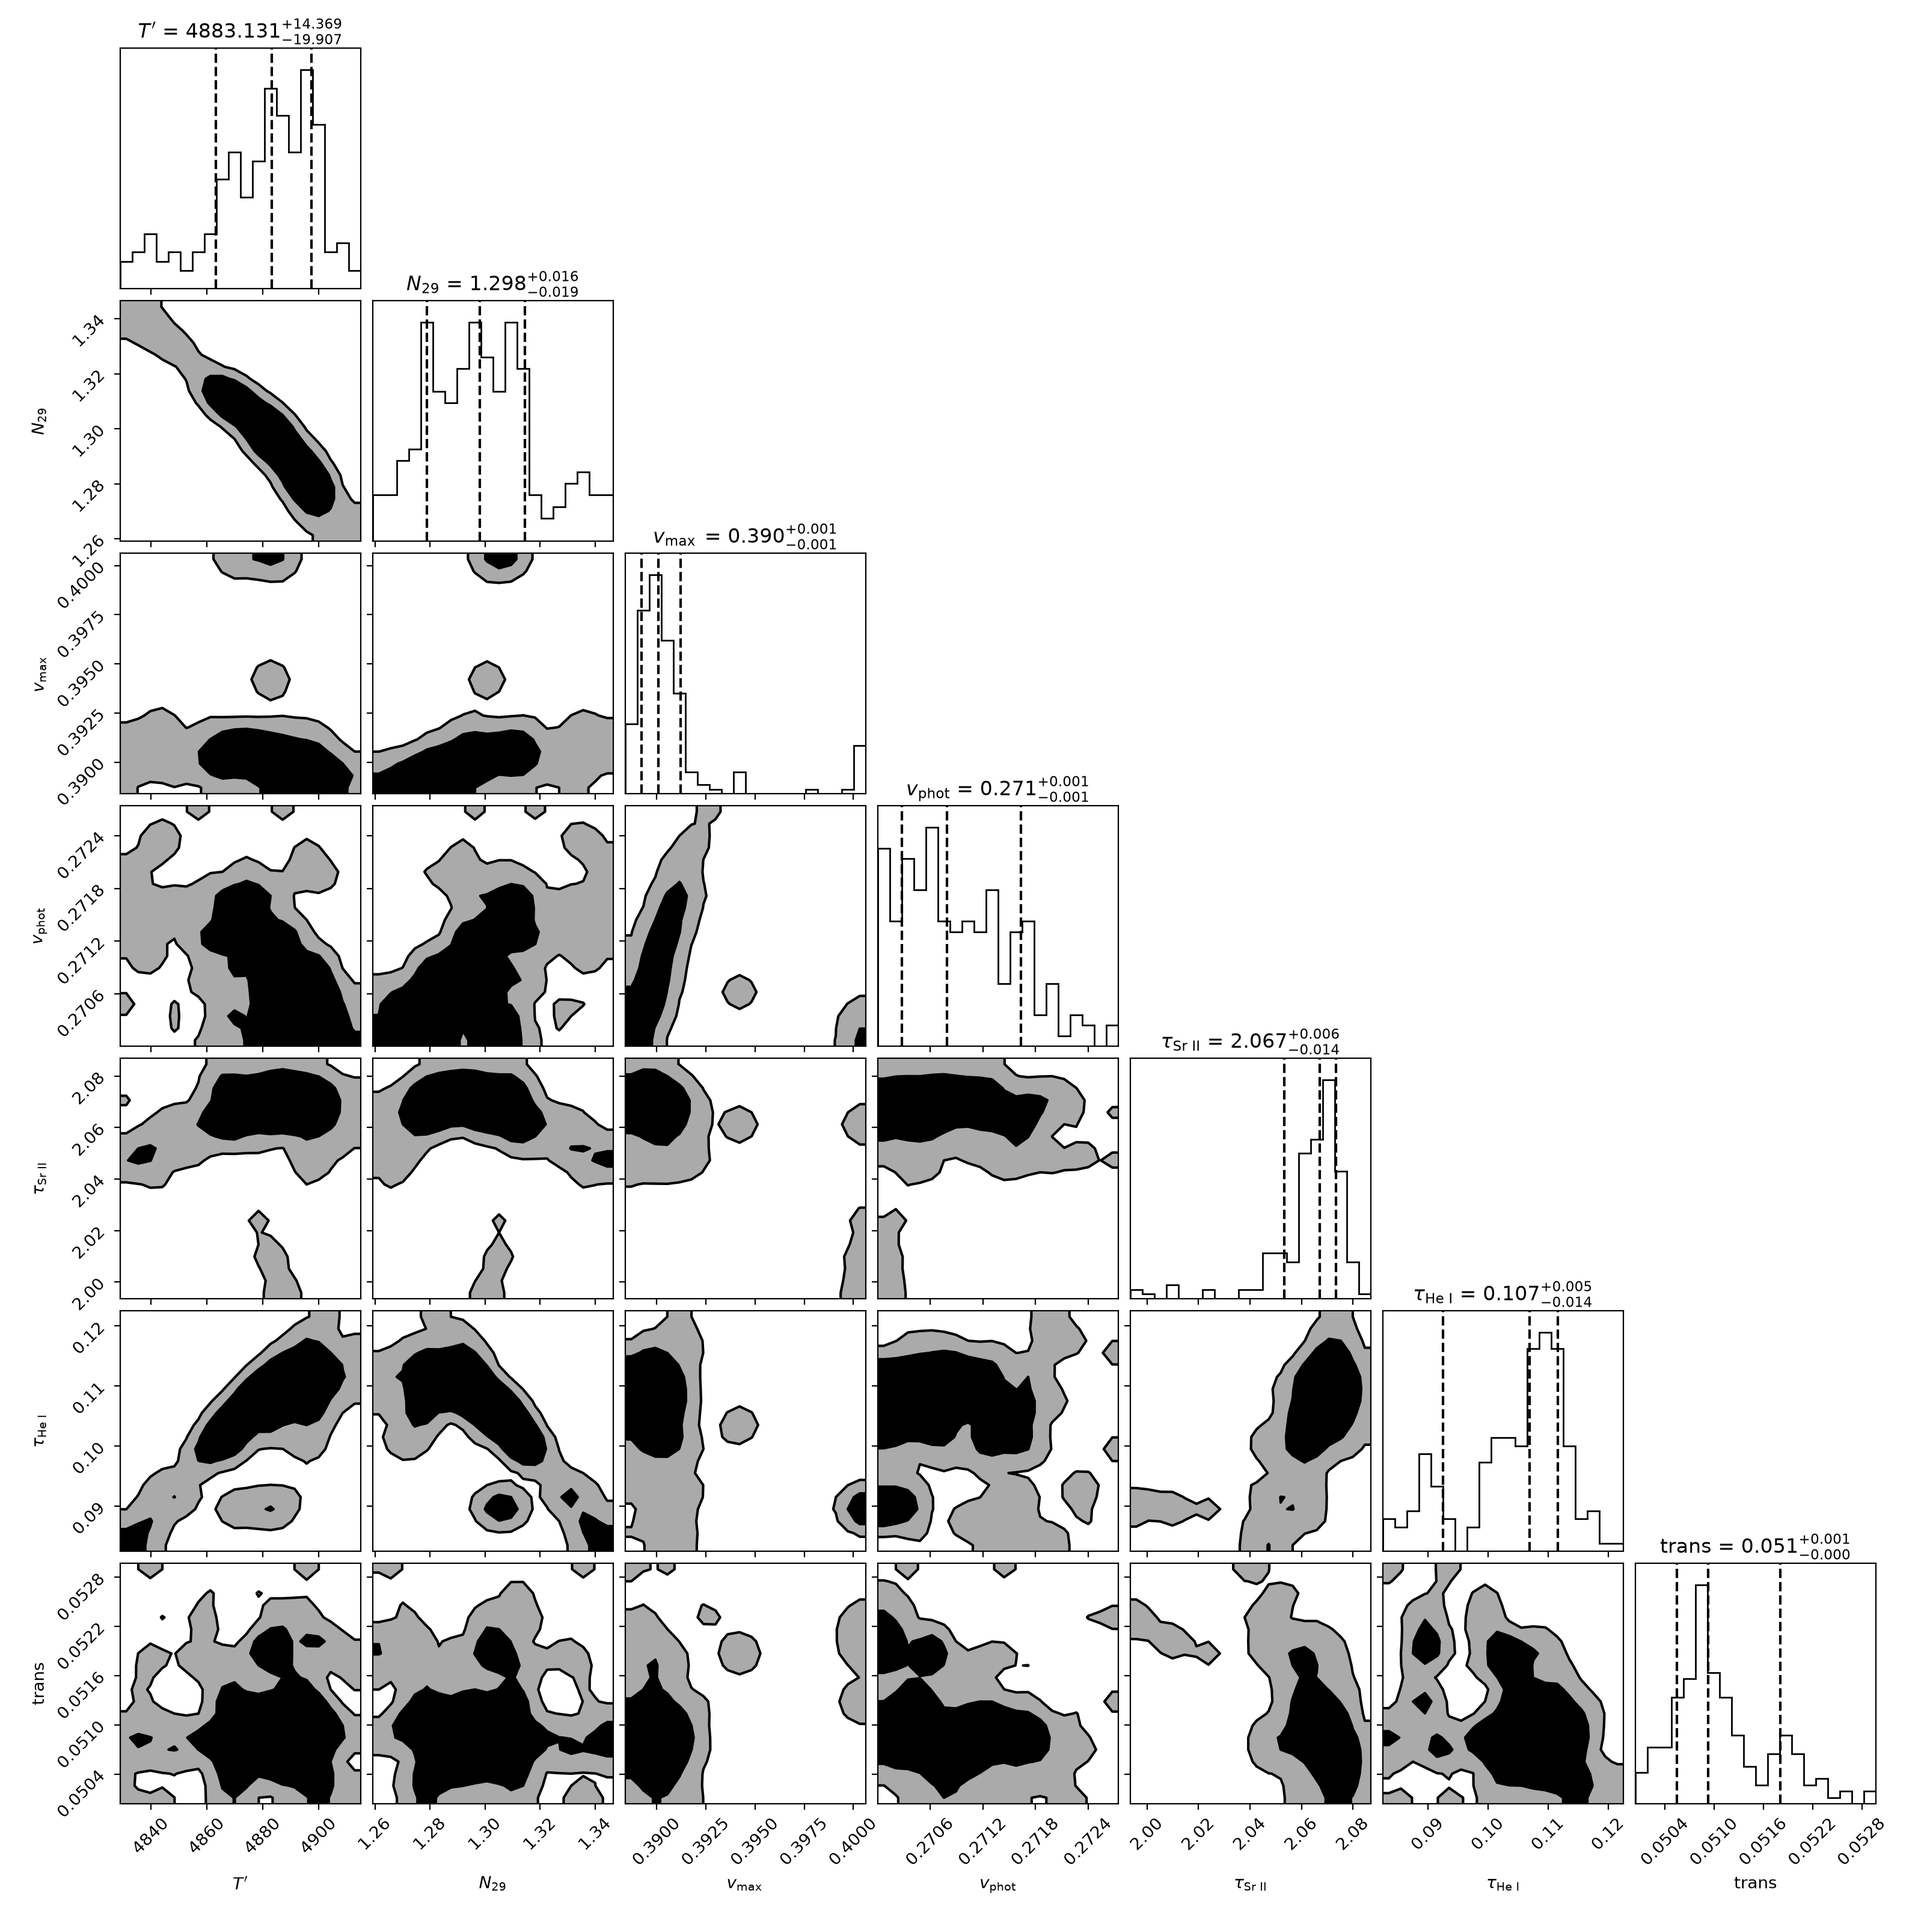
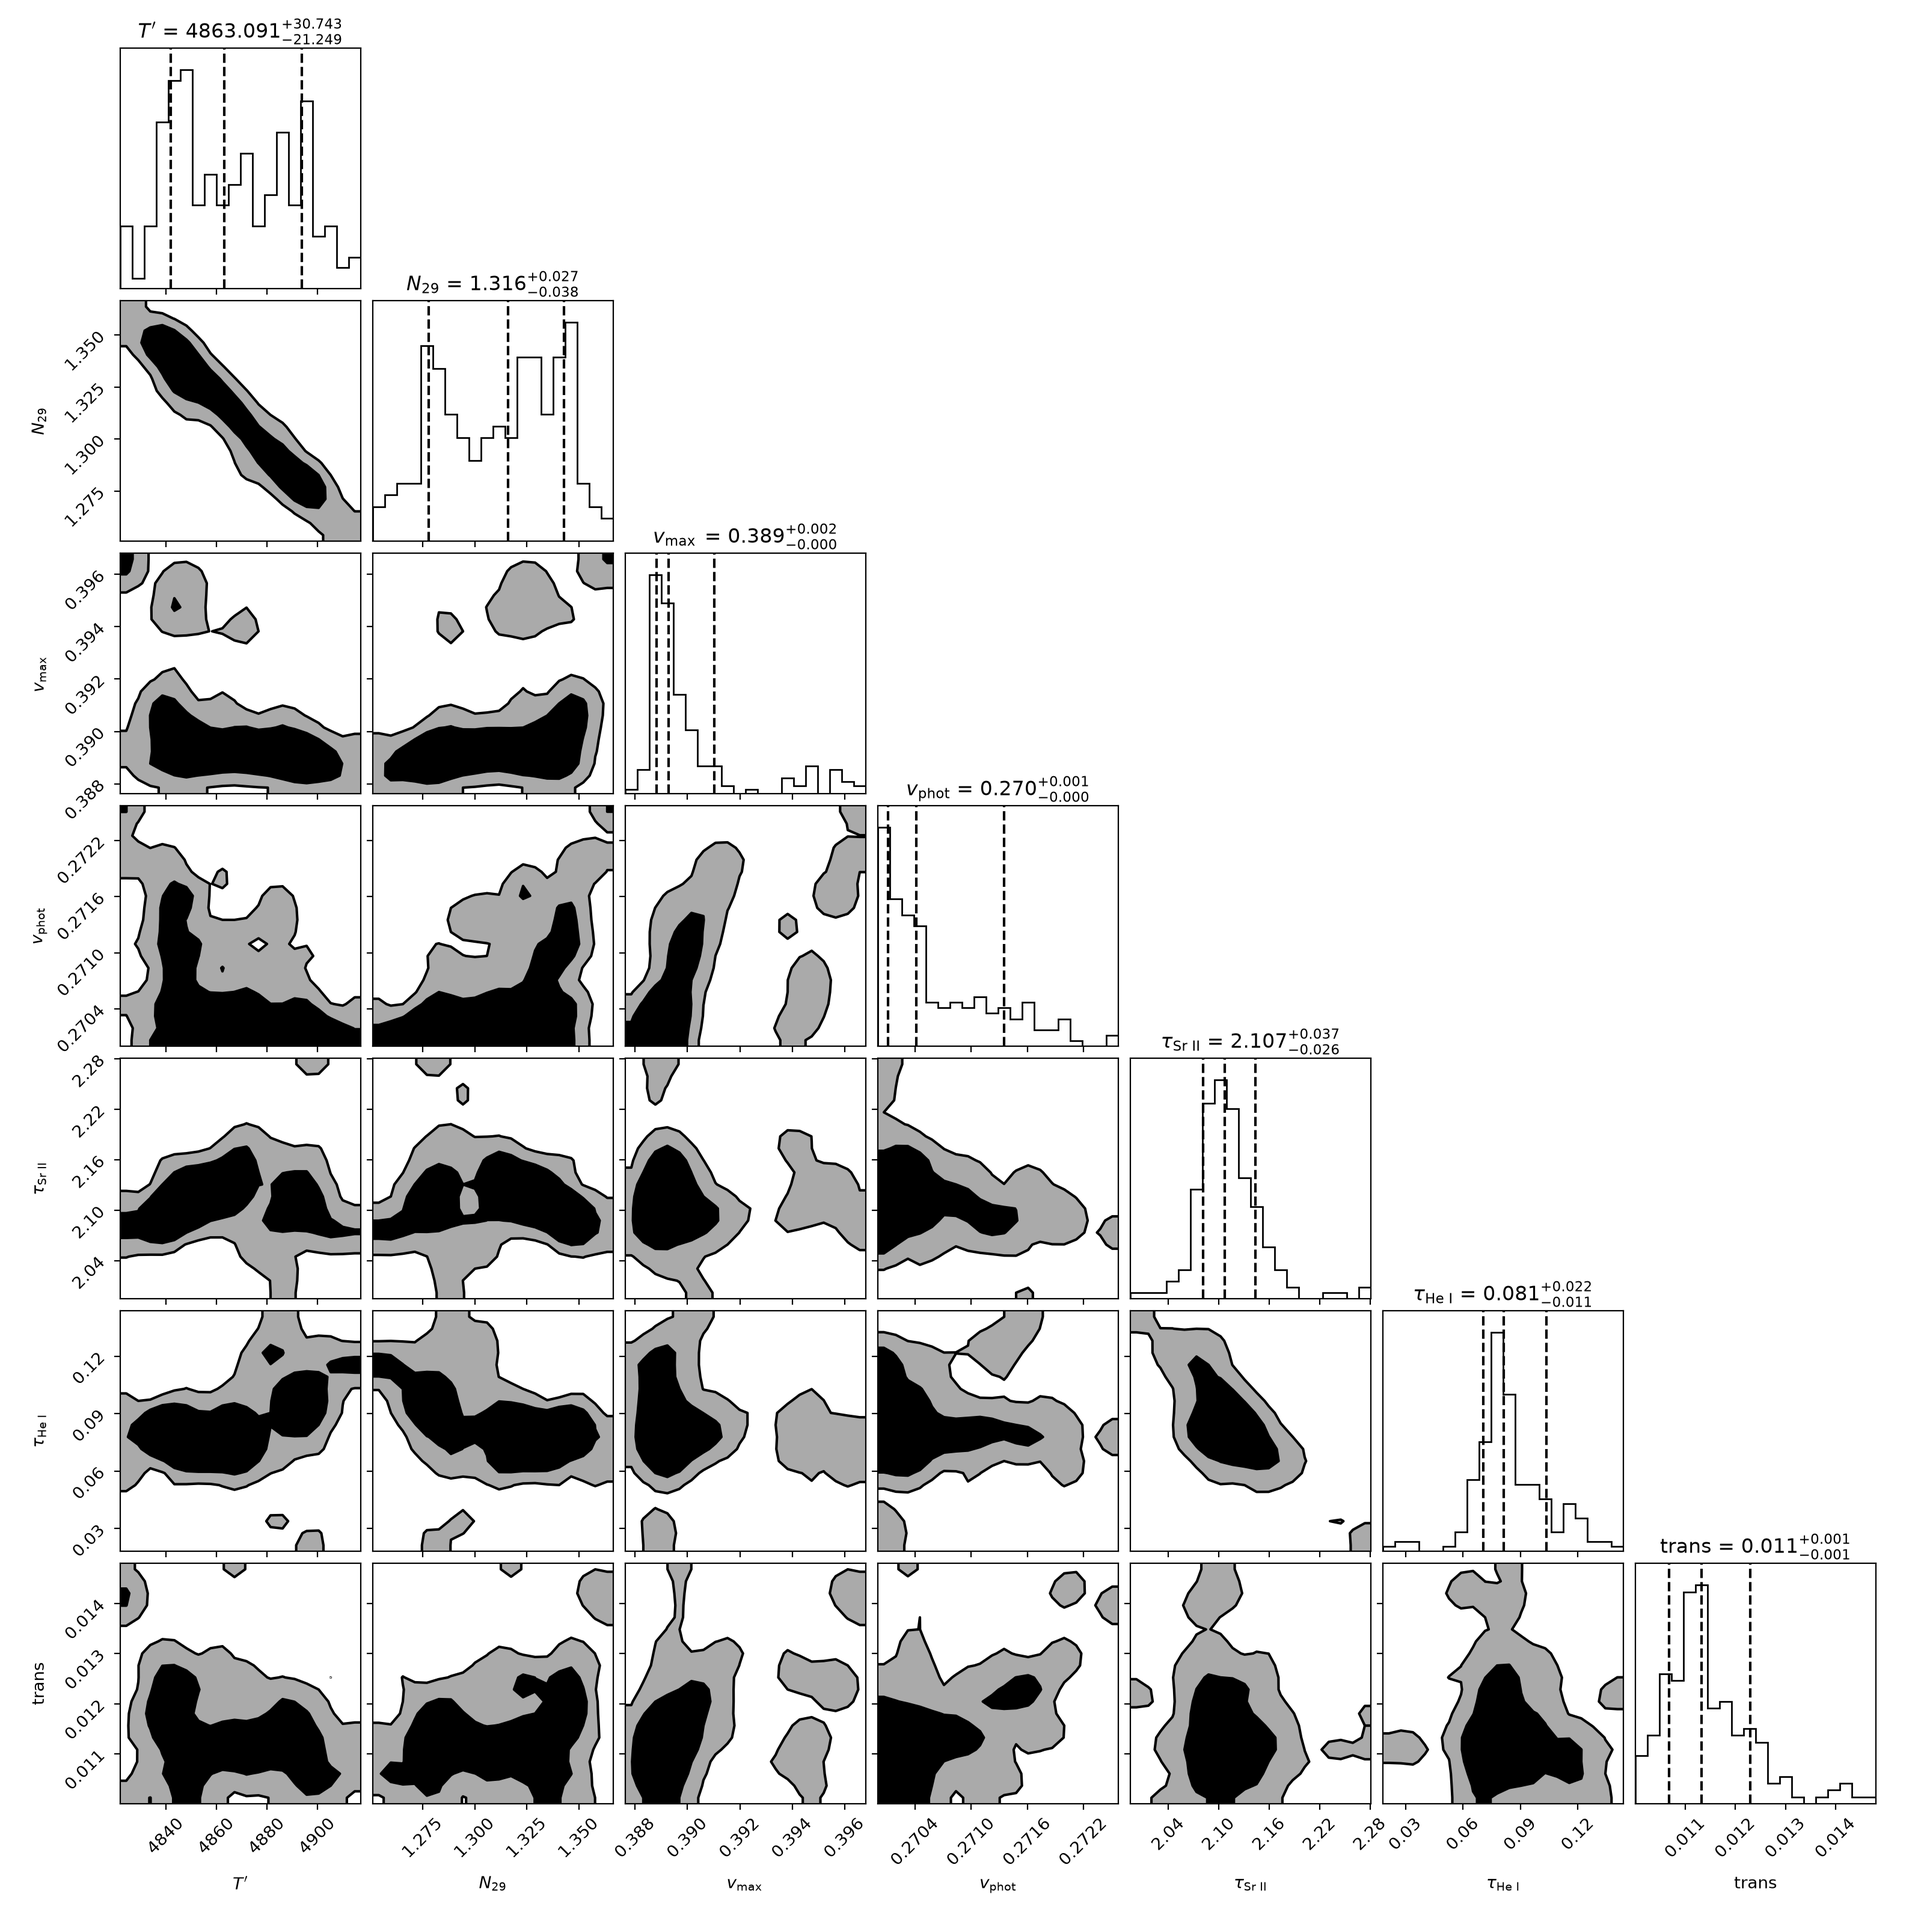
Fix MCMC multimodality issue and refine MCMC bounds/priors

diff --git a/scripts/run_mcmc_fit.py b/scripts/run_mcmc_fit.py
@@ -131,7 +131,7 @@ def main():
                 (0.27, 0.35),
                 (0.8, 2.5),
                 (0.0, 0.50),
-                (0.05, 1.2),
+                (0.01, 1.2),
             ],
             "init_guess": [4800.0, 1.20, 0.42, 0.29, 1.80, 0.05, 0.35],
         },
@@ -143,13 +143,13 @@ def main():
             "bounds": [
                 (2900.0, 4000.0),
                 (1.50, 3.20),
-                (0.32, 0.42),
+                (0.25, 0.42),
                 (0.16, 0.29),
-                (0.5, 2.5),
+                (0.1, 4.0),
                 (0.0, 1.20),
                 (0.15, 1.2),
             ],
-            "init_guess": [3200.0, 2.10, 0.36, 0.24, 1.50, 0.30, 0.45],
+            "init_guess": [3200.0, 2.10, 0.36, 0.24, 1.35, 0.30, 0.45],
         },
         {
             "label": "Phase +3.41d (OB3)",
@@ -159,8 +159,8 @@ def main():
             "bounds": [
                 (2500.0, 3680.0),
                 (1.0, 5.0),
-                (0.23, 0.37),
-                (0.14, 0.25),
+                (0.18, 0.37),
+                (0.10, 0.25),
                 (0.1, 3.0),
                 (0.0, 3.0),
                 (0.15, 1.2),
@@ -176,12 +176,12 @@ def main():
                 (2200.0, 3335.0),
                 (2.00, 4.00),
                 (0.19, 0.33),
-                (0.12, 0.21),
+                (0.08, 0.18),
                 (0.1, 2.5),
                 (0.3, 2.50),
                 (0.15, 1.2),
             ],
-            "init_guess": [2500.0, 3.10, 0.27, 0.16, 1.00, 1.20, 0.60],
+            "init_guess": [2500.0, 3.10, 0.27, 0.14, 1.00, 1.20, 0.60],
         },
     ]
 
@@ -245,9 +245,9 @@ def main():
         pos = []
         for _ in range(nwalkers):
             while True:
-                cand = center_point + spans * 0.001 * np.random.randn(ndim)
+                cand = center_point + spans * 0.005 * np.random.randn(ndim)
                 cand = np.clip(
-                    cand, low_b + 0.001 * spans, high_b - 0.001 * spans
+                    cand, low_b + 0.005 * spans, high_b - 0.005 * spans
                 )
                 if prob_wrapper.log_prior(cand) > -1e10:
                     pos.append(cand)

diff --git a/tests/test_radiation_engine.py b/tests/test_radiation_engine.py
@@ -95,6 +95,22 @@ def test_mcmc_probability_wrapper_priors():
     invalid_theta_hydro_high = [5000.0, 1.0, 0.46, 0.2, 1.0, 0.2, 0.8] # vmax-vphot = 0.26
     assert wrapper.log_prior(invalid_theta_hydro_high) == -np.inf
 
-    # Check phase independence of tau constraints (i.e. they shouldn't exist anymore)
-    valid_theta_high_tau = [5000.0, 1.0, 0.3, 0.2, 4.0, 3.0, 0.8]
-    assert wrapper.log_prior(valid_theta_high_tau) == 0.0
+    # Check new temporal constraints (days <= 2.5: tau_he <= 0.20, tau_sr >= tau_he)
+    invalid_theta_tau_he_high = [5000.0, 1.0, 0.3, 0.2, 1.0, 0.3, 0.8] # tau_he > 0.20
+    assert wrapper.log_prior(invalid_theta_tau_he_high) == -np.inf
+
+    invalid_theta_tau_sr_low = [5000.0, 1.0, 0.3, 0.2, 0.1, 0.15, 0.8] # tau_sr < tau_he
+    assert wrapper.log_prior(invalid_theta_tau_sr_low) == -np.inf
+
+    # Check new temporal constraints (days >= 3.0: tau_sr <= 1.2)
+    wrapper_late = MCMCProbabilityWrapper(x_fit, y_fit, err_fit, time_s, bounds, days=3.5)
+    valid_theta_late = [5000.0, 1.0, 0.3, 0.2, 1.0, 0.5, 0.8] # tau_sr <= 1.2
+    assert wrapper_late.log_prior(valid_theta_late) == 0.0
+
+    invalid_theta_late_tau_sr = [5000.0, 1.0, 0.3, 0.2, 1.5, 0.5, 0.8] # tau_sr > 1.2
+    assert wrapper_late.log_prior(invalid_theta_late_tau_sr) == -np.inf
+
+    # Check Day 4 constraint (vphot <= 0.14)
+    wrapper_day4 = MCMCProbabilityWrapper(x_fit, y_fit, err_fit, time_s, bounds, days=4.4)
+    invalid_theta_day4_vphot = [5000.0, 1.0, 0.3, 0.15, 1.0, 0.5, 0.8] # vphot > 0.14
+    assert wrapper_day4.log_prior(invalid_theta_day4_vphot) == -np.inf

diff --git a/src/radiation_engine.py b/src/radiation_engine.py
@@ -35,7 +35,7 @@ def relativistic_blackbody_flam(wave_m, T_prime, beta, t0_s, n_mu=16):
     dmu = 1.0 / n_mu
     sum_flux = 0.0
 
-    R_phot = t0_s * beta * C_CGS
+    R_phot = t0_s * beta * c_speed * 100
 
     for i in range(n_mu):
         mu_prime = (i + 0.5) * dmu
@@ -45,7 +45,7 @@ def relativistic_blackbody_flam(wave_m, T_prime, beta, t0_s, n_mu=16):
         # mu in lab frame is (mu_prime + beta) / (1 + beta*mu_prime)
         mu_lab = (mu_prime + beta) / (1.0 + beta * mu_prime)
         z = R_phot * mu_lab
-        dt_em = z / C_CGS # Time delay
+        dt_em = z / (c_speed * 100) # Time delay
 
         # Emission time is t0_s + dt_em
         t_em = t0_s + dt_em

diff --git a/src/probability.py b/src/probability.py
@@ -25,6 +25,19 @@ class MCMCProbabilityWrapper(object):
         if not (0.03 <= v_diff <= 0.25) or N_29 <= 0.0:
             return -np.inf
 
+        # 2. 시계열 물리 제약 (Temporal & Physical Consistency Prior)
+        if self.days <= 2.5:
+            if tau_he > 0.20 or tau_sr < tau_he:
+                return -np.inf
+        elif self.days >= 3.0:
+            if tau_sr > 1.2:
+                return -np.inf
+
+            # 광구 감속 조건: Day 4의 vphot 상한을 0.14c 이하로 제한
+            if self.days > 4.0:
+                if vphot > 0.14:
+                    return -np.inf
+
         return 0.0
 
     def log_likelihood(self, theta):
